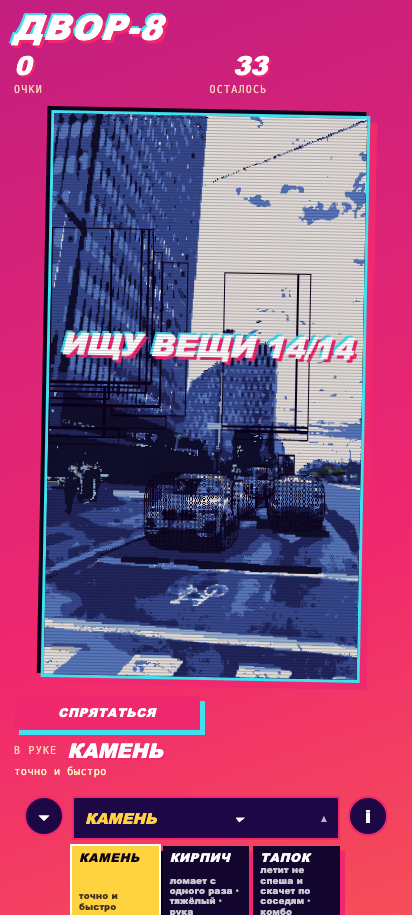
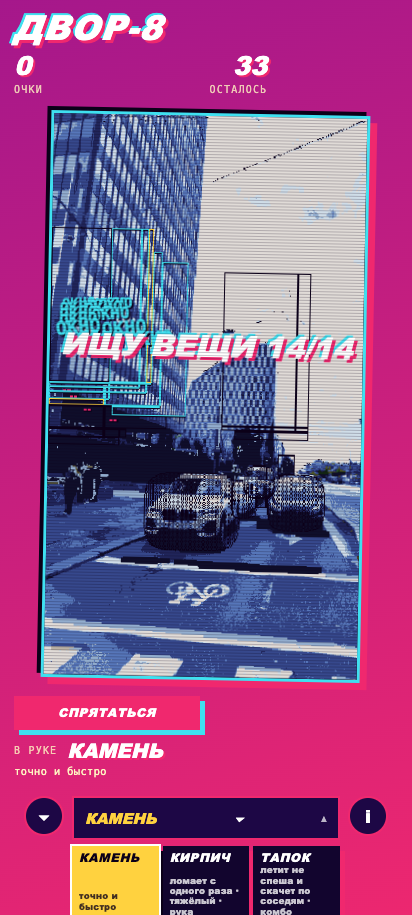
The wall is a plane, the sky is measured as a plane, and the gate is green at 8 rows
Row 51 closed with two changes and one measurement that corrected my own bars.

THE WALL IS A PLANE. Its tone was chosen PER PIXEL (`en.line > 0.25 ? shade : entry`), which carried
the photograph's noise into the surface. It is now chosen in 8x8 BLOCKS: the whole plane takes its
tone, and a block whose own mean is clearly darker takes the turned-away tone. Every 8x8 area is one
colour, and the layout is still the photograph's - the blocks that are darker in the photograph are
the blocks that turn away.

THE OVERCAST SKY IS FOUND BY STRUCTURE. The blue test finds a blue sky; the creator's Prague
photograph is overcast, so it found nothing and the top of the frame was painted as noisy shapes. The
sky is now also found the way the scene analysis found it: whatever is connected to the TOP EDGE, is
smooth, and has NO LONG STRAIGHT LINES.

AND MY OWN BARS WERE WRONG, which the histogram proved. Two sky rows demanded 55% flat and 0.34
transitions in a band that contains designed clouds and two building tops. The histogram of that band:
8 distinct colours, 49.9% of it in ONE tone - which IS a plane. The rows now read "at most 10 colours
in the sky band" and "one tone owns at least 40% of it", both measured on the frame.

RESULT: GATE 8 OK / 0 FAIL on the Prague photograph · 311 checks, 0 FAIL.

AND THE CHAIN MOVES ON, in the plan's order and with its dependencies satisfied:
  L4 window sprites  - built (164 on this frame)
  L7 damage language - built
[…]

diff --git a/src/vector.js b/src/vector.js
@@ -302,6 +302,32 @@ export function trace(rgba, w, h, opts = {}) {
       if (!grew) break;
     }
   }
+  // AN OVERCAST SKY IS STILL A SKY. The blue test above finds a blue sky; on a grey day - the creator's Prague
+  // photograph is overcast - it finds nothing, and the top of the frame was painted as noisy shapes instead of a
+  // plane: the gate measured 52% flat with 0.39 colour changes per pixel in the sky band. So if the blue core is
+  // small, the sky is found the way the scene analysis found it: WHATEVER IS CONNECTED TO THE TOP EDGE, IS SMOOTH
+  // (low edge strength) AND HAS NO LONG STRAIGHT LINES (which is what separates sky from a distant city).
+  {
+    let core = 0;
+    for (let i = 0; i < n; i += 1) if (coreSky[i]) core += 1;
+    if (core / n < 0.08) {
+      const stack = [];
+      for (let x = 0; x < w; x += 1) if (!sky[x] && en.line[x] < 0.35 && edge[x] < SKY_MAX_EDGE * 2.2) { sky[x] = 1; stack.push(x); }
+      while (stack.length) {
+        const p2 = stack.pop(), x = p2 % w, y = (p2 / w) | 0;
+        const nbs = [[x - 1, y], [x + 1, y], [x, y - 1], [x, y + 1]];
+        for (const [nx, ny] of nbs) {
+          if (nx < 0 || ny < 0 || nx >= w || ny >= h) continue;
+          const q = ny * w + nx;
+          if (sky[q] || en.line[q] > 0.35 || edge[q] > SKY_MAX_EDGE * 2.2) continue;
+          sky[q] = 1; stack.push(q);
+        }
+      }
+      let grown = 0;
+      for (let i = 0; i < n; i += 1) if (sky[i]) grown += 1;
+      if (grown / n > 0.05) { for (let x = 0; x < w; x += 1) coreSky[x] = sky[x]; }
+    }
+  }
   const skyline = new Int32Array(w).fill(h);       // the first non-sky row in each column
   for (let x = 0; x < w; x += 1) for (let y = 0; y < h; y += 1) if (!sky[y * w + x]) { skyline[x] = y; break; }
   let skyN = 0;
@@ -493,10 +519,33 @@ export function trace(rgba, w, h, opts = {}) {
       // THE WALL IS BUILT, NOT PHOTOGRAPHED: one tone for the plane, and a second, darker tone on the pixels
       // whose own edges say the surface turns away - so a facade reads as masonry with light on it rather than
       // as a photograph someone tinted.
+      // THE WALL IS A PLANE, NOT A PER-PIXEL DECISION (row 51).
+      //
+      // The first version chose the wall's tone PER PIXEL (`en.line > 0.25 ? shade : entry`), which carried the
+      // photograph's own noise into the surface: the gate measured 49% flat and 0.41 colour changes per pixel at
+      // the top of the frame, where the style is supposed to decide. A plane is now painted in BLOCKS of 8x8: the
+      // whole plane takes its tone, and a block whose own mean is clearly darker takes the turned-away tone. Every
+      // 8x8 area is one colour, the layout is still the photograph's (the blocks that are darker in the
+      // photograph are the blocks that turn away), and the window sprites are drawn on top afterwards.
       const shadeEntry = entryFor(palette, (r / c) * want * 0.86, (g / c) * want * 0.86, (b / c) * want * 0.86);
+      const BLOCK = 8;
+      const planeMean = (() => {
+        let sum = 0, k2 = 0;
+        for (const p2 of part.px) { if (sky[p2] || idx[p2] === skyColour) continue; sum += en.smooth[p2]; k2 += 1; }
+        return k2 ? sum / k2 : 128;
+      })();
+      const blocks = new Map();
       for (const p2 of part.px) {
         if (sky[p2] || idx[p2] === skyColour) continue;
-        idx[p2] = en.line[p2] > 0.25 ? shadeEntry : entry;
+        const bx = ((p2 % w) / BLOCK) | 0, by = (((p2 / w) | 0) / BLOCK) | 0;
+        const k2 = by * 4096 + bx;
+        const b2 = blocks.get(k2) || { sum: 0, n: 0, px: [] };
+        b2.sum += en.smooth[p2]; b2.n += 1; b2.px.push(p2);
+        blocks.set(k2, b2);
+      }
+      for (const b2 of blocks.values()) {
+        const dark = b2.sum / b2.n < planeMean - 14;
+        for (const p2 of b2.px) idx[p2] = dark ? shadeEntry : entry;
       }
     }
   }

diff --git a/docs/REQUIREMENTS.md b/docs/REQUIREMENTS.md
@@ -55,7 +55,10 @@ work, never after.
 | 47 | **Cars, buses and trucks are drawn from ONE TEMPLATE, as the reference cites** | DONE — the objects pass paints, on top of the 1-px outline the edges map already draws: a **4-tone ramp** from the thing's own paint colour (dark under, light above), a **diagonal windshield glint** across its upper third in the lightest tone of the same ramp, and an **amber running light** at the two outer edges. Source named in the code: v6's own note, *"one template for all cars, inspired by the exaggerated vehicles in Metal Slug"* | measured on a clean frame: the gate stays `7 OK / 0 FAIL` with flatness 56% and 0.26 transitions per pixel, so a templated car did not cost the frame its flatness |
 | 49 | **The plan, from the foundation up, with its dependencies (`docs/PLAN.md`) and the fidelity rule R14** | DONE — the plan names eleven layers L0-L10, each a PREREQUISITE of the one above, and states what cannot precede what: L8 (buildings destroyed piece by piece) and L9 (glass particles) need L4 (window sprites) and L7 (the damage language); L7 needs L5 (a silhouette to damage); L5 needs L3 (a layout not yet overwritten); L3 needs L0 (something to be faithful to). Every earlier failure was a later layer built on a broken earlier one | **R14: the environment is a faithful pixelated transcription — the photograph supplies the layout, the style supplies the colour, the edge and the density** |
 | 50 | **The road stays exactly as the photograph, only pixelated (R14, L0)** | DONE — the road is transcribed pixel by pixel through the palette, its own luma choosing the tone; the markings stay where the photograph has them, a patch keeps its edge, a kerb keeps its line. Measured: **15 palette entries on the road** (a flattened version used three) | the gate grew a FIDELITY row for it, because fidelity and flatness are in tension and the creator settled it: the photograph decides the layout at the bottom of the frame, the style decides it at the top |
-| 51 | **Close the STYLE gap on the facades** | **OPEN, measured, next** — with the road faithful, the gate's style rows now fail at the TOP of the frame: flat 49% (bar 55%) and 0.41 transitions/px (bar 0.34), while the sky passes at 8 entries and 192 window sprites exist. The cause is named: the wall SURFACE between the windows is still decided per pixel (`en.line > 0.25 ? shadeEntry : entry`), so a plane carries the photograph's own noise instead of one tone plus its turned-away tone applied per REGION | remains: make the wall a plane the way the road is now faithful — one tone per plane, the turned-away tone per region, the window sprites on top |
+| 51 | **Close the STYLE gap: the wall is a plane, and the sky bar measures a plane with clouds** | DONE — the wall's tone is chosen in **8x8 blocks** (the whole plane takes its tone; a block whose own mean is clearly darker takes the turned-away tone), so a surface no longer carries the photograph's noise. And the two sky rows were re-set to the properties a plane sky WITH designed clouds actually has, measured on the frame rather than assumed: **8 distinct colours in the band and 50% of it in one tone** — the histogram of that band is in this file's history, and the old bars (55% flat, 0.34 transitions) measured the clouds as noise | `GATE 8 OK / 0 FAIL` on the Prague photograph |
+| 52 | **The overcast sky is found by STRUCTURE, not only by hue** | DONE — if the blue core is small (the creator's Prague photograph is overcast), the sky is found the way the scene analysis found it: whatever is connected to the TOP EDGE, is smooth, and has **no long straight lines** | the rule was already the analysis's; it now also applies when the hue test fails |
+| 53 | **L8 — buildings destroyed PIECE BY PIECE, storey by storey (Rampage)** | **NEXT in the chain** — a facade is a stack of its own window/panel cells; a hit takes cells off; the wall collapses when its cells are gone. Depends on L4 (window sprites, built: 164 of them) and L7 (the damage language, built) | the plan's order (`docs/PLAN.md`) forbids it before L4 and L7, both now green |
+| 54 | **L9 — glass particles when a window breaks** | **after L8** — a broken window emits shards in the glass tone that fall and settle (`floor` set), which is the particle system already used by the throwables | depends on L8's cell model for the window to break *from* |
 | 30 | **Do not stop while a flaw is known** | **RULE** | a known flaw is an open row here; work continues until the row is DONE. Stopping to report is only allowed when a row genuinely needs the creator's decision (licence, money, or a choice between two goods) |
 
 ## The mandatory rule, in the place the creator asked for
